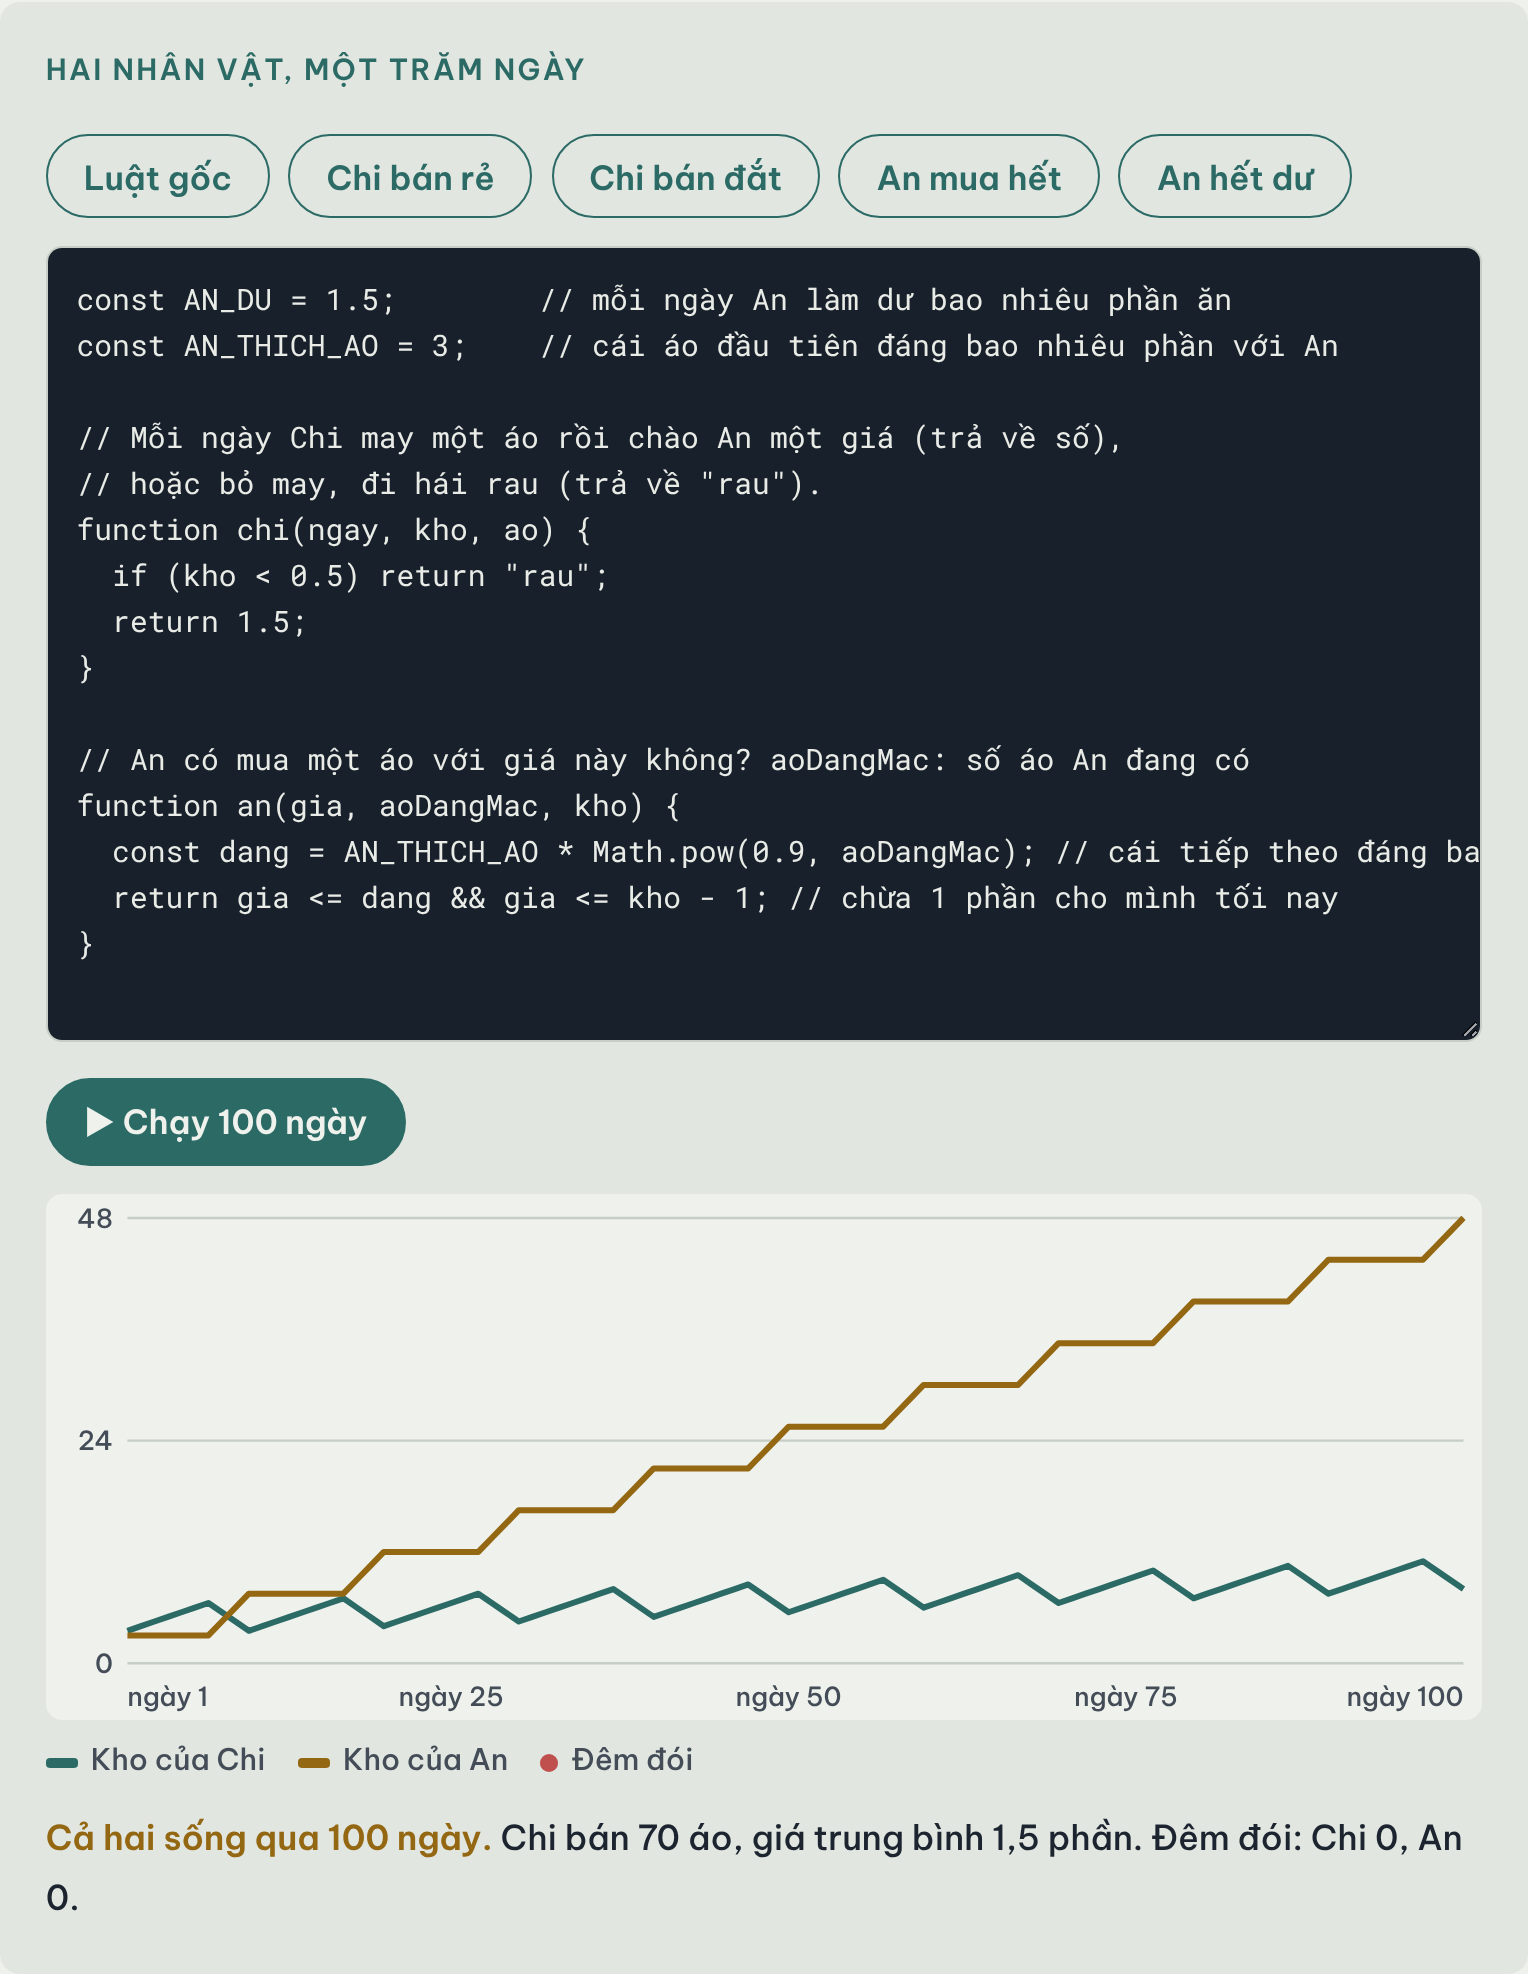
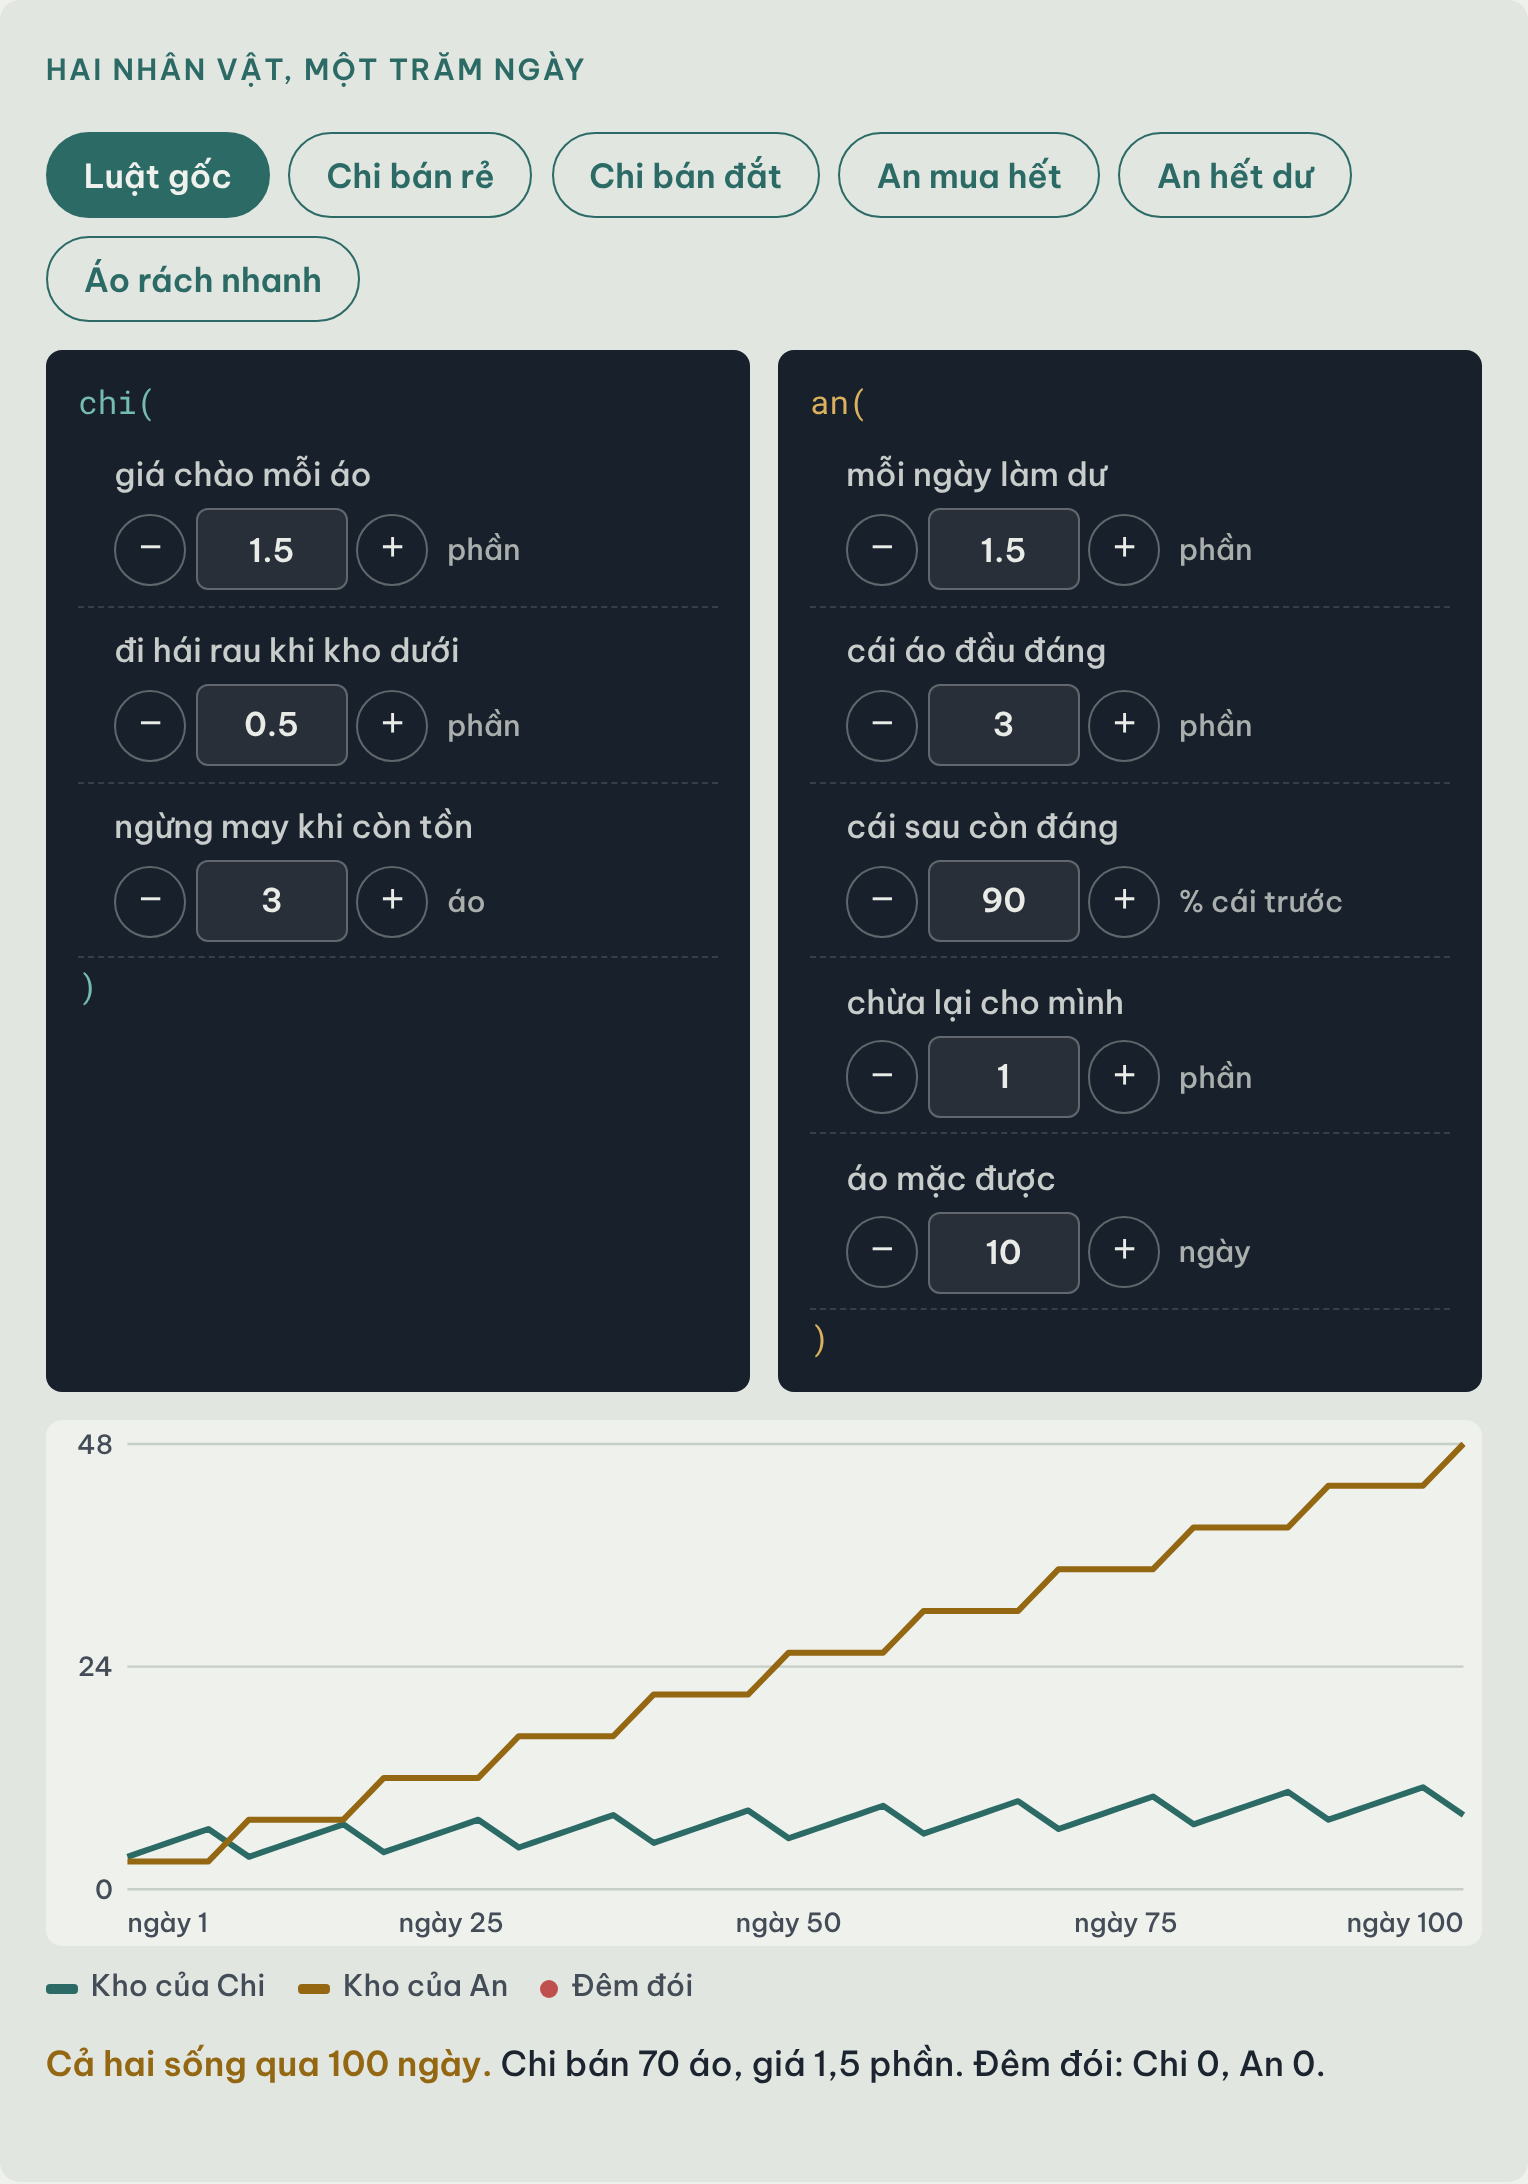
Trang 4: luật Chi và An thành ô điền tham số (#11)
* Bìa, trang 1 và trang 2: lật trang bằng câu hỏi

Trang 1 "Thế giới không có gì cả" (Menger, Robbins, giá trị chủ quan).
Trang 2 "Ngân hàng của một người" trả lời: có người đầu tiên và ngân hàng
đầu tiên thì tiền đã xuất hiện chưa (ba chức năng của tiền, Robinson Crusoe,
tiết kiệm và đầu tư bằng hạt giống).

Claude-Session: https://claude.ai/code/session_017o6HfnV6HWKa1gihVjG7Zc

* Trang 3 "Rau đổi cá": tiền đóng vai trò gì khi có hai người

Trả lời câu hỏi của Novian: một người trồng rau, một người đánh cá phải đổi
cho nhau mới sống. Phân công lao động, lợi thế so sánh, khoảng giá cả hai
cùng có lợi, lòng tin và trò chơi lặp lại, hai mầm của tiền (giá và nợ).

Claude-Session: https://claude.ai/code/session_017o6HfnV6HWKa1gihVjG7Zc

* Dựng lại khung cho hàng trăm, hàng nghìn trang

Mỗi trang là một thư mục src/trang/<0000-slug>/ (meta.json + Trang.astro).
Các trang nối thành cây câu hỏi (cha/con), trang nào cũng có thể có nhiều
câu hỏi con. Astro build tĩnh, lật trang bằng View Transitions giữa hai
tài liệu, mục lục giấu tải từ muc-luc.json. pnpm kiem soát cây trang.
GitHub Actions tự build và đưa lên Pages khi push main.

Claude-Session: https://claude.ai/code/session_017o6HfnV6HWKa1gihVjG7Zc

* Chữ to và đậm hơn cho dễ đọc

Cỡ chữ gốc tăng theo bề ngang màn hình (16px điện thoại, ~18px laptop,
20px màn lớn), chữ phụ đậm màu hơn ở cả hai nền, thuật ngữ tiếng Anh to hơn.

Claude-Session: https://claude.ai/code/session_017o6HfnV6HWKa1gihVjG7Zc
[…]

diff --git a/src/styles/sach.css b/src/styles/sach.css
@@ -266,12 +266,18 @@ strong[id^="kn-"]:target { outline: none; background: var(--vang-nen); box-shado
 @media (prefers-reduced-motion: no-preference) { .tro-chuyen .tin { animation: tin-hien .25s ease-out; } @keyframes tin-hien { from { opacity: 0; transform: translateY(6px); } } }
 
 /* Trang 4: khung code luật Chi và An + biểu đồ 100 ngày */
-.lap-trinh textarea { display: block; width: 100%; margin-top: 0.75rem; padding: 0.8rem; border: 1px solid var(--vien); border-radius: 8px;
-  background: var(--troi); color: var(--troi-chu); font-family: "Roboto Mono", ui-monospace, Menlo, Consolas, monospace; font-size: 0.82rem; line-height: 1.55;
-  white-space: pre; overflow-x: auto; resize: vertical; tab-size: 2; }
-.lap-trinh textarea:focus { outline: 2px solid var(--bien); outline-offset: 2px; }
-.lap-trinh .nut-chay { background: var(--bien); color: var(--giay); border-color: var(--bien); }
-.lap-trinh .loi-code { margin: 0.5rem 0 0; padding: 0.5rem 0.75rem; border-radius: 6px; background: var(--vang-nen); color: var(--muc); font-family: var(--chu-nhan); font-size: 0.88rem; }
+.ham-the { display: grid; grid-template-columns: repeat(auto-fit, minmax(15rem, 1fr)); gap: 0.75rem; margin-top: 0.75rem; }
+.ham { background: var(--troi); color: var(--troi-chu); border-radius: 8px; padding: 0.7rem 0.9rem; font-family: var(--chu-nhan); font-size: 0.9rem; }
+.ham .ten-ham { margin: 0; font-family: "Roboto Mono", ui-monospace, Menlo, monospace; font-weight: 400; }
+.ham.chi .ten-ham { color: #74bcb3; } .ham.an .ten-ham { color: #dcb15e; }
+.tham-so { display: grid; grid-template-columns: auto 1fr; grid-template-areas: "ten ten" "so dv"; align-items: center; gap: 0.15rem 0.5rem; padding: 0.4rem 0 0.4rem 1rem; border-bottom: 1px dashed rgba(232, 235, 230, 0.15); }
+.tham-so label { grid-area: ten; color: rgba(232, 235, 230, 0.85); }
+.tham-so .o-so { grid-area: so; display: inline-flex; align-items: center; gap: 0.25rem; }
+.tham-so .don-vi { grid-area: dv; color: rgba(232, 235, 230, 0.7); font-size: 0.82rem; }
+.o-so input { width: 4.2rem; text-align: center; font: inherit; font-weight: 600; padding: 0.3rem 0.2rem; border-radius: 6px; border: 1px solid rgba(232, 235, 230, 0.3); background: rgba(232, 235, 230, 0.08); color: var(--troi-chu); -moz-appearance: textfield; }
+.o-so input::-webkit-inner-spin-button, .o-so input::-webkit-outer-spin-button { -webkit-appearance: none; margin: 0; }
+.o-so button { width: 2rem; height: 2rem; border-radius: 50%; border: 1px solid rgba(232, 235, 230, 0.35); background: transparent; color: var(--troi-chu); font-size: 1.1rem; line-height: 1; cursor: pointer; }
+.o-so button:hover { background: rgba(232, 235, 230, 0.15); }
 .bieu-do { display: block; width: 100%; height: auto; margin-top: 0.75rem; background: var(--giay); border-radius: 8px; }
 .bieu-do .luoi { stroke: var(--vien); stroke-width: 1; }
 .bieu-do .truc { font-family: var(--chu-nhan); font-size: 11px; fill: var(--muc-nhat); }
